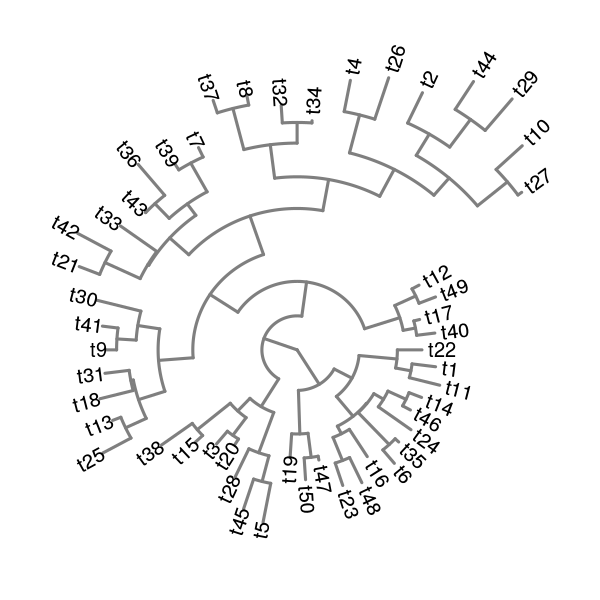
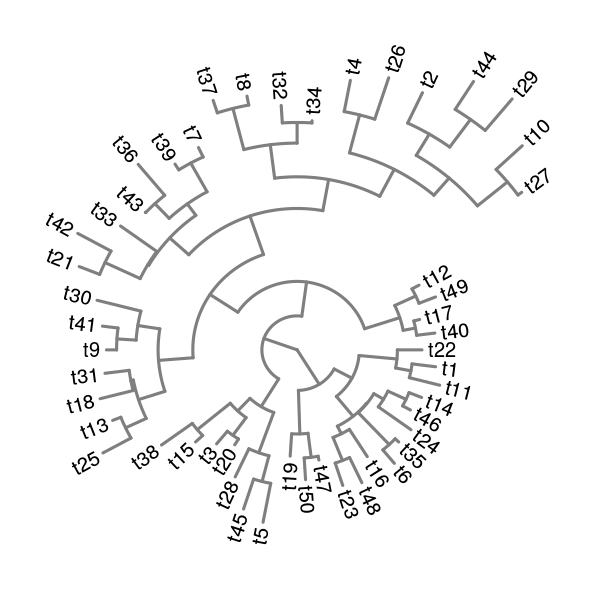
added offset to text.phyloLayout, added birdlife dataset

diff --git a/vignettes/ggfree-trees.md b/vignettes/ggfree-trees.md
@@ -298,16 +298,6 @@ image(L, geno, xlim=c(30, 37), col=col, cex.axis=0.75, line=-2)
 
 <img src="man/figures/README-unnamed-chunk-10-1.png" width="80%" style="display: block; margin: auto;" />
 
-``` r
-
-L <- tree.layout(flu, type='o', unscaled=T)
-par(mar=c(2,2,2,2))
-plot(L, label='n')
-image(L, geno, xlim=c(1,2), col=col)
-```
-
-<img src="man/figures/README-unnamed-chunk-10-2.png" width="80%" style="display: block; margin: auto;" />
-
 This end result is pretty similar to the `ggtree` example (Figure 5 from
 [this paper](https://doi.org/10.1111/2041-210X.12628)), except that
 we’re not embedding small images and not annotating the internal nodes
@@ -316,18 +306,13 @@ uninformative\!).
 
 ## Example: a bird tree
 
-The `ape` package has a phylogenetic tree example that relates bird
-species:
+The `ape` package has several examples of phylogenetic trees that
+relates birds at different taxonomic levels:
 
 ``` r
 # load the example tree
-data("chiroptera")
-chiroptera
-#> 
-#> Phylogenetic tree with 916 tips and 429 internal nodes.
-#> 
-#> Tip labels:
-#>  Paranyctimene_raptor, Nyctimene_aello, Nyctimene_celaeno, Nyctimene_certans, Nyctimene_cyclotis, Nyctimene_major, ...
-#> 
-#> Rooted; no branch lengths.
+data("bird.families")
+plot(tree.layout(bird.families))
 ```
+
+<img src="man/figures/README-unnamed-chunk-11-1.png" width="400" style="display: block; margin: auto;" />
